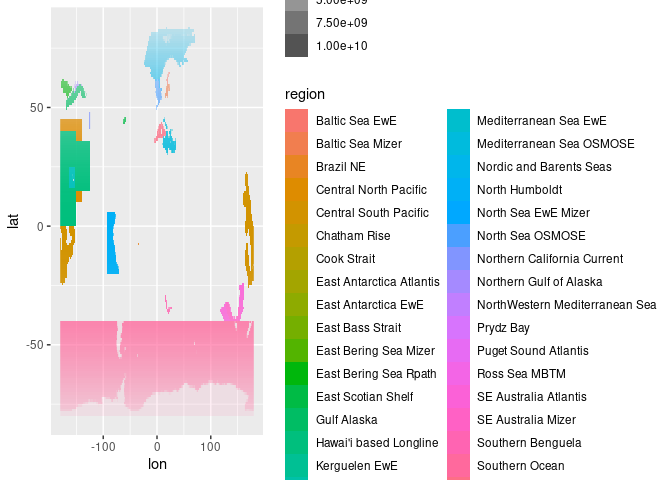
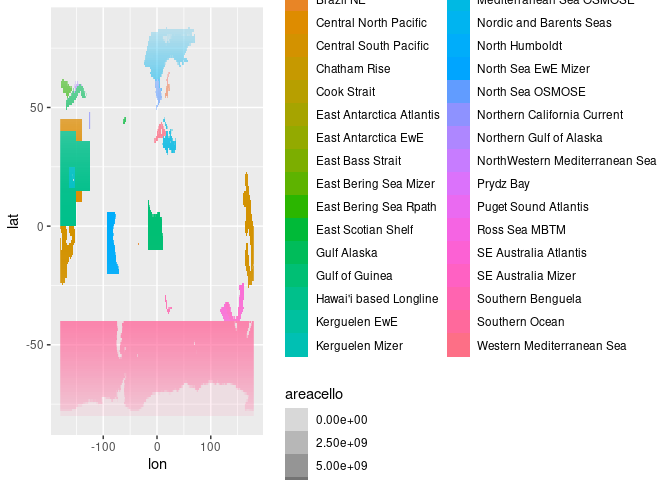
creating masks with Gulf of Guinea

Changed region(s): [[0.4062, 0.0, 0.9688, 1.0], [0.2188, 0.4375, 0.25, 0.5312], [0.0938, 0.1875, 0.125, 0.2188]]

diff --git a/Scripts/03b_Regional_Models_3DMasks.md b/Scripts/03b_Regional_Models_3DMasks.md
@@ -6,8 +6,8 @@ Denisse Fierro Arcos
 - <a href="#introduction" id="toc-introduction">Introduction</a>
 - <a href="#loading-libraries" id="toc-loading-libraries">Loading
   libraries</a>
-- <a href="#loading-fish-mip-regional-models-shapefile"
-  id="toc-loading-fish-mip-regional-models-shapefile">Loading Fish-MIP
+- <a href="#loading-fishmip-regional-models-shapefile"
+  id="toc-loading-fishmip-regional-models-shapefile">Loading FishMIP
   regional models shapefile</a>
 - <a href="#finding-location-of-raster-samples"
   id="toc-finding-location-of-raster-samples">Finding location of raster
@@ -45,7 +45,7 @@ library(tidyverse)
 library(rnaturalearth)
 ```
 
-# Loading Fish-MIP regional models shapefile
+# Loading FishMIP regional models shapefile
 
 We will load the shapefile with all Fish-MIP regional model boundaries
 and add a unique ID identifying each region.
@@ -246,7 +246,7 @@ reg_keys |>
 reg_keys
 ```
 
-    ## # A tibble: 36 × 2
+    ## # A tibble: 37 × 2
     ##       id region                  
     ##    <int> <chr>                   
     ##  1     1 Baltic Sea EwE          
@@ -259,7 +259,7 @@ reg_keys
     ##  8     8 East Antarctica Atlantis
     ##  9     9 East Antarctica EwE     
     ## 10    10 East Bass Strait        
-    ## # ℹ 26 more rows
+    ## # ℹ 27 more rows
 
 ## How to use raster mask
 
@@ -343,7 +343,7 @@ mask_df <- read_csv(list.files(out_folder, "w-fractions.*csv",
   filter(region == "East Antarctica EwE")
 ```
 
-    ## Rows: 24048 Columns: 4
+    ## Rows: 24483 Columns: 4
     ## ── Column specification ────────────────────────────────────────────────────────
     ## Delimiter: ","
     ## chr (1): region
@@ -374,7 +374,7 @@ extract_df_all <- read_csv(list.files(out_folder, "w-fractions.*csv",
   left_join(sample_df, by = c("lon", "lat"))
 ```
 
-    ## Rows: 24048 Columns: 4
+    ## Rows: 24483 Columns: 4
     ## ── Column specification ────────────────────────────────────────────────────────
     ## Delimiter: ","
     ## chr (1): region
